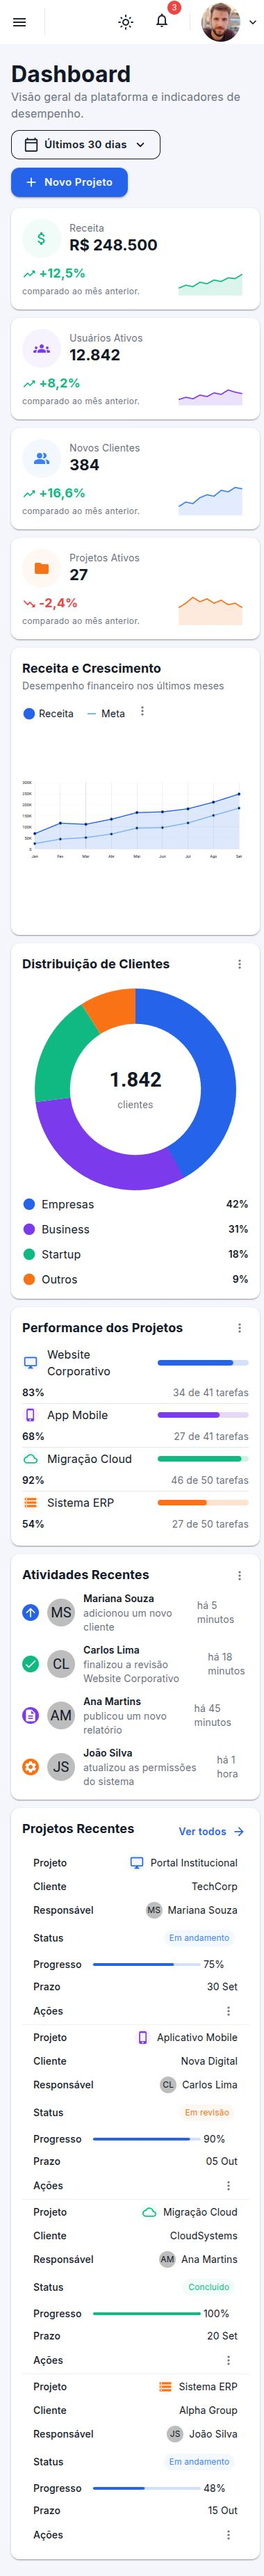
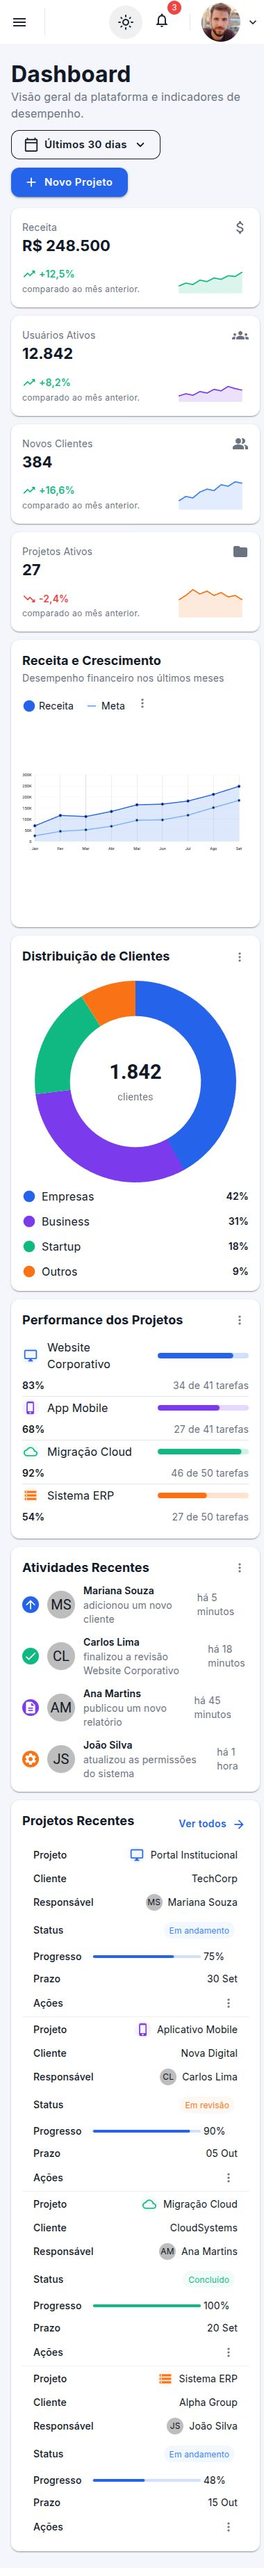
Refina visual do dashboard com inspiração da referência

diff --git a/docs/verificacao.md b/docs/verificacao.md
@@ -60,7 +60,8 @@ Busca, Novo Projeto, exportação, cadastro e edição são apenas demonstrativo
 
 ## Evidências e pendências
 
-- Prints reais da página: `tema-claro.png`, `tema-escuro.png` e `mobile.png`.
+- Prints reais da página: `tema-claro.png`, `tema-escuro.png` e `mobile.png`, atualizados após o refinamento visual da navegação em grupos, dos cartões de KPI e da paleta escura.
+- Capturas refeitas em desktop (1440px) e celular (390px): o tema escuro usa superfícies em carvão, e o mobile continua com um KPI por linha e a tabela em cartões rotulados.
 - Fragmento HTML realmente obtido do DOM: `docs/html-dashboard-card.html`.
 - **Falta capturar o print da interface Elements do DevTools** e salvar como `docs/prints/devtools.png`. A interface DevTools não é exposta pelo navegador integrado; o fragmento HTML não substitui o print exigido.
 - O aluno deve revisar e reescrever as respostas de aprendizado com suas palavras. O README identifica que o desenvolvimento e as explicações foram assistidos.

diff --git a/README.md b/README.md
@@ -20,6 +20,8 @@ O dashboard apresenta quatro indicadores com pequenos gráficos de tendência, u
 
 O objetivo acadêmico é praticar Blazor WebAssembly, componentes Razor, parâmetros, comunicação por eventos e organização de dados. Todo o conteúdo é fictício, sem backend. O visual utiliza os componentes, o tema e os utilitários nativos do MudBlazor; não há CSS próprio para estilizar o dashboard.
 
+Como referência visual, a interface usa cartões de indicadores mais compactos, navegação separada em grupos e um tema escuro em tons de carvão com acentos azuis e coloridos. A distribuição mantém os gráficos e as seções exigidos para esta atividade.
+
 ## Tecnologias utilizadas
 
 - .NET SDK 10 — desenvolvimento verificado com **10.0.112**.
